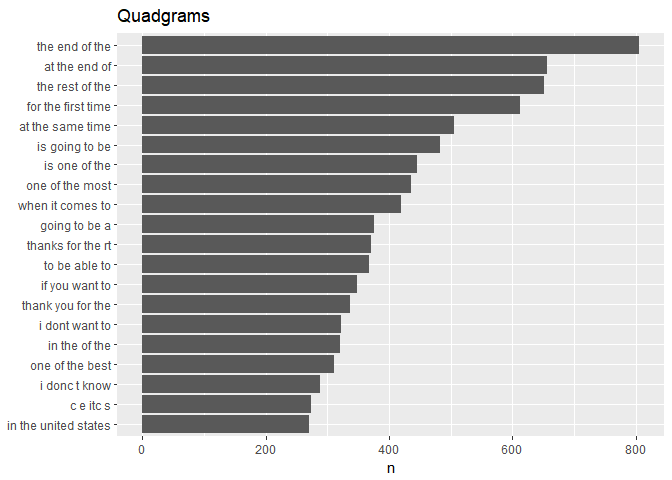
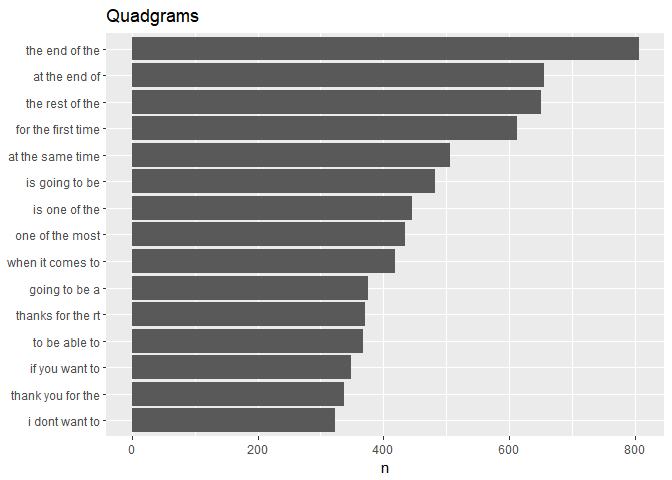
Add 6-gtrams for implementation in the app.

diff --git a/04A_Task_Script.md b/04A_Task_Script.md
@@ -1,7 +1,7 @@
 Task 04A: Fast Ngram Files
 ================
 Mark Blackmore
-2017-12-05
+2017-12-07
 
 -   [Load the Data](#load-the-data)
 -   [Sample the data](#sample-the-data)
@@ -251,7 +251,7 @@ ggsave("./ngram_match/www/sextgrams.png")
 
 ``` r
 quintgram_cover %>%
-  top_n(20, n) %>%
+  top_n(15, n) %>%
   mutate(quintgram = reorder(quintgram, n)) %>%
   ggplot(aes(quintgram, n)) +
   geom_col() +
@@ -270,7 +270,7 @@ ggsave("./ngram_match/www/quintgrams.png")
 
 ``` r
 quadgram_cover %>%
-  top_n(20, n) %>%
+  top_n(15, n) %>%
   mutate(quadgram = reorder(quadgram, n)) %>%
   ggplot(aes(quadgram, n)) +
   geom_col() +
@@ -289,7 +289,7 @@ ggsave("./ngram_match/www/quadgrams.png")
 
 ``` r
 trigram_cover %>%
-  top_n(20, n) %>%
+  top_n(15, n) %>%
   mutate(trigram = reorder(trigram, n)) %>%
   ggplot(aes(trigram, n)) +
   geom_col() +
@@ -308,7 +308,7 @@ ggsave("./ngram_match/www/trigrams.png")
 
 ``` r
 bigram_cover %>%
-  top_n(20, n) %>%
+  top_n(15, n) %>%
   mutate(bigram = reorder(bigram, n)) %>%
   ggplot(aes(bigram, n)) +
   geom_col() +
@@ -412,6 +412,27 @@ quint_words
     ## 10    is going    to    be     a    93
     ## # ... with 1,307 more rows
 
+``` r
+sext_words <- sextgram_cover %>%
+  separate(sextgram, c("word1", "word2", "word3", "word4", "word5", "word6"), sep = " ")
+sext_words
+```
+
+    ## # A tibble: 235 x 7
+    ##    word1    word2    word3 word4 word5 word6     n
+    ##  * <chr>    <chr>    <chr> <chr> <chr> <chr> <int>
+    ##  1    at      the      end    of   the   day   107
+    ##  2     c        c        c     c     c     c    63
+    ##  3    on      the    other  side    of   the    57
+    ##  4    me       me       me    me    me    me    40
+    ##  5  this       is    going    to    be     a    36
+    ##  6  cake     cake     cake  cake  cake  cake    34
+    ##  7     i     just finished     a    mi   run    34
+    ##  8  just finished        a    mi   run  with    33
+    ##  9 thank      you       so  much   for   the    28
+    ## 10   let       me     know  what   you think    27
+    ## # ... with 225 more rows
+
 Save data for the Shiny App
 
 ``` r
@@ -419,6 +440,7 @@ saveRDS(bi_words, "./ngram_match/app_data/bi_words_fast.rds")
 saveRDS(tri_words, "./ngram_match/app_data/tri_words_fast.rds")
 saveRDS(quad_words,"./ngram_match/app_data/quad_words_fast.rds")
 saveRDS(quint_words,"./ngram_match/app_data/quint_words_fast.rds")
+saveRDS(sext_words,"./ngram_match/app_data/sext_words_fast.rds")
 ```
 
 ------------------------------------------------------------------------
